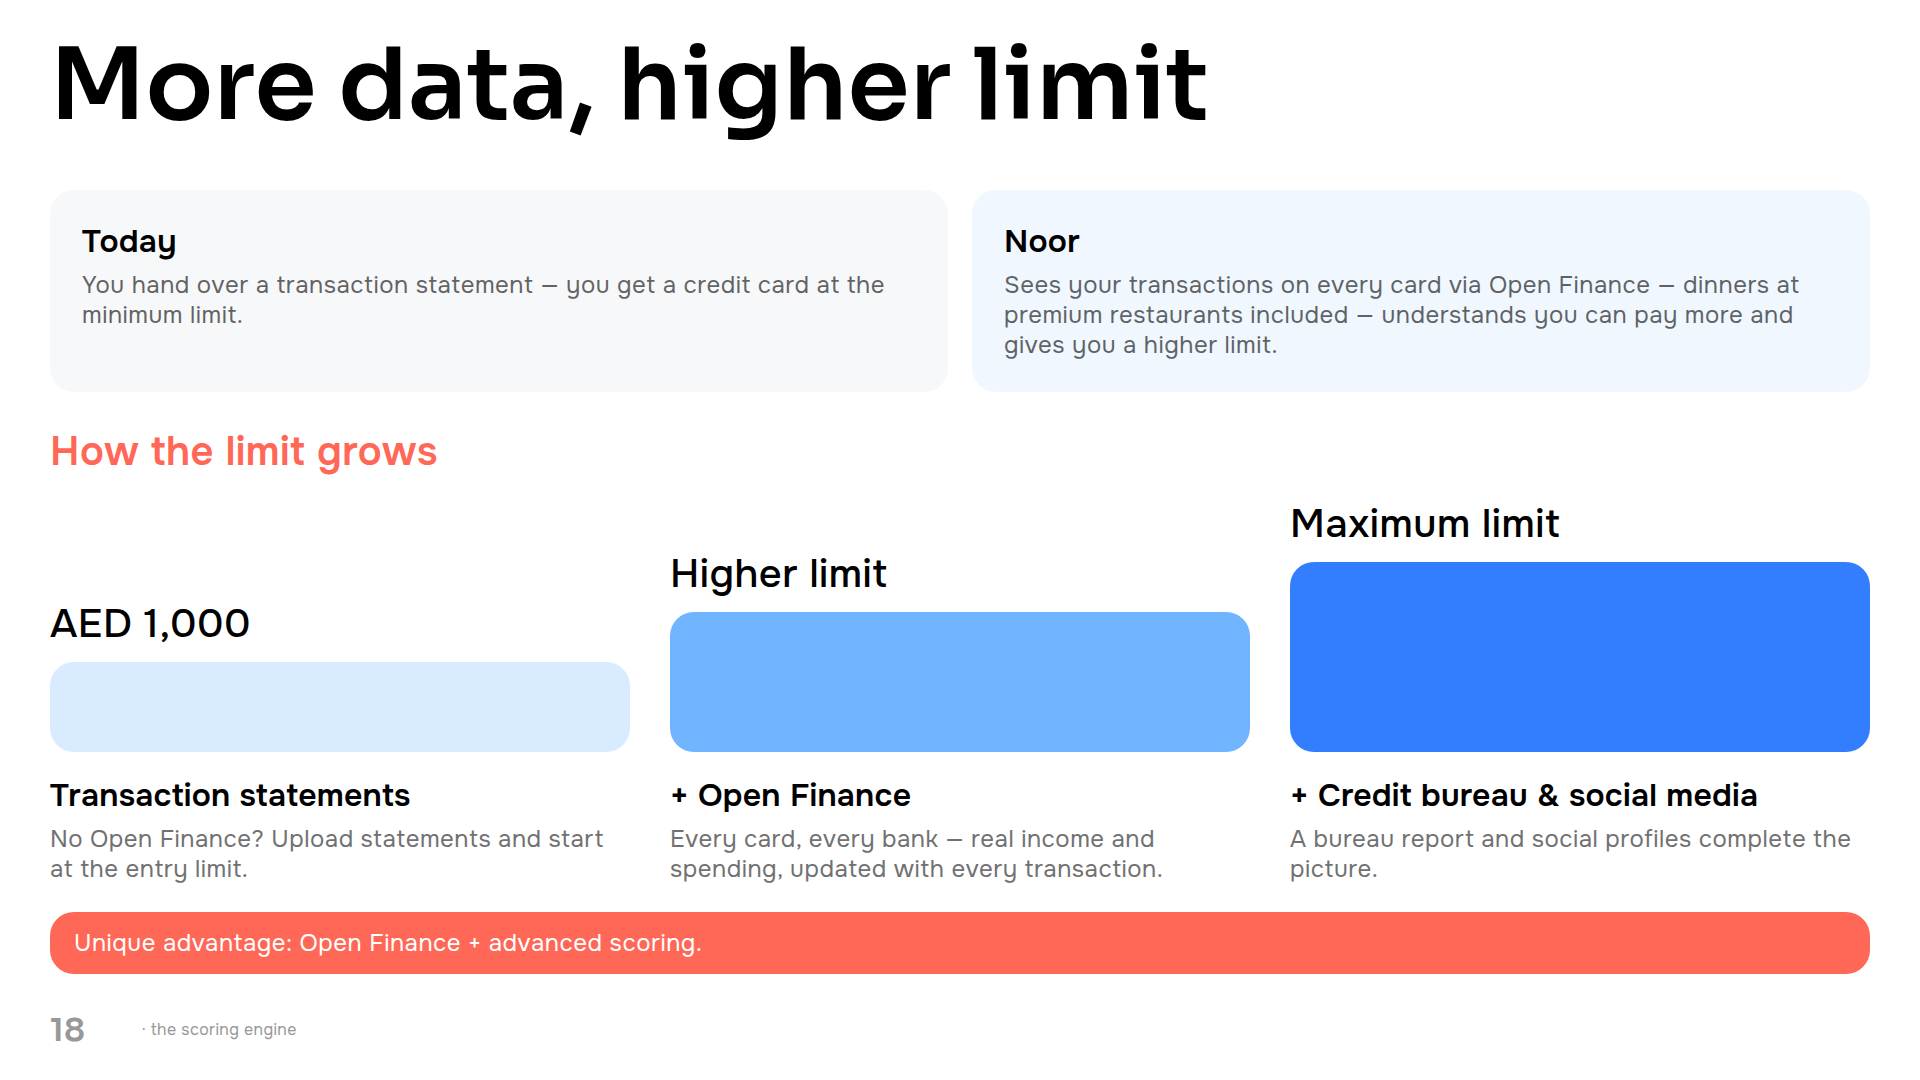
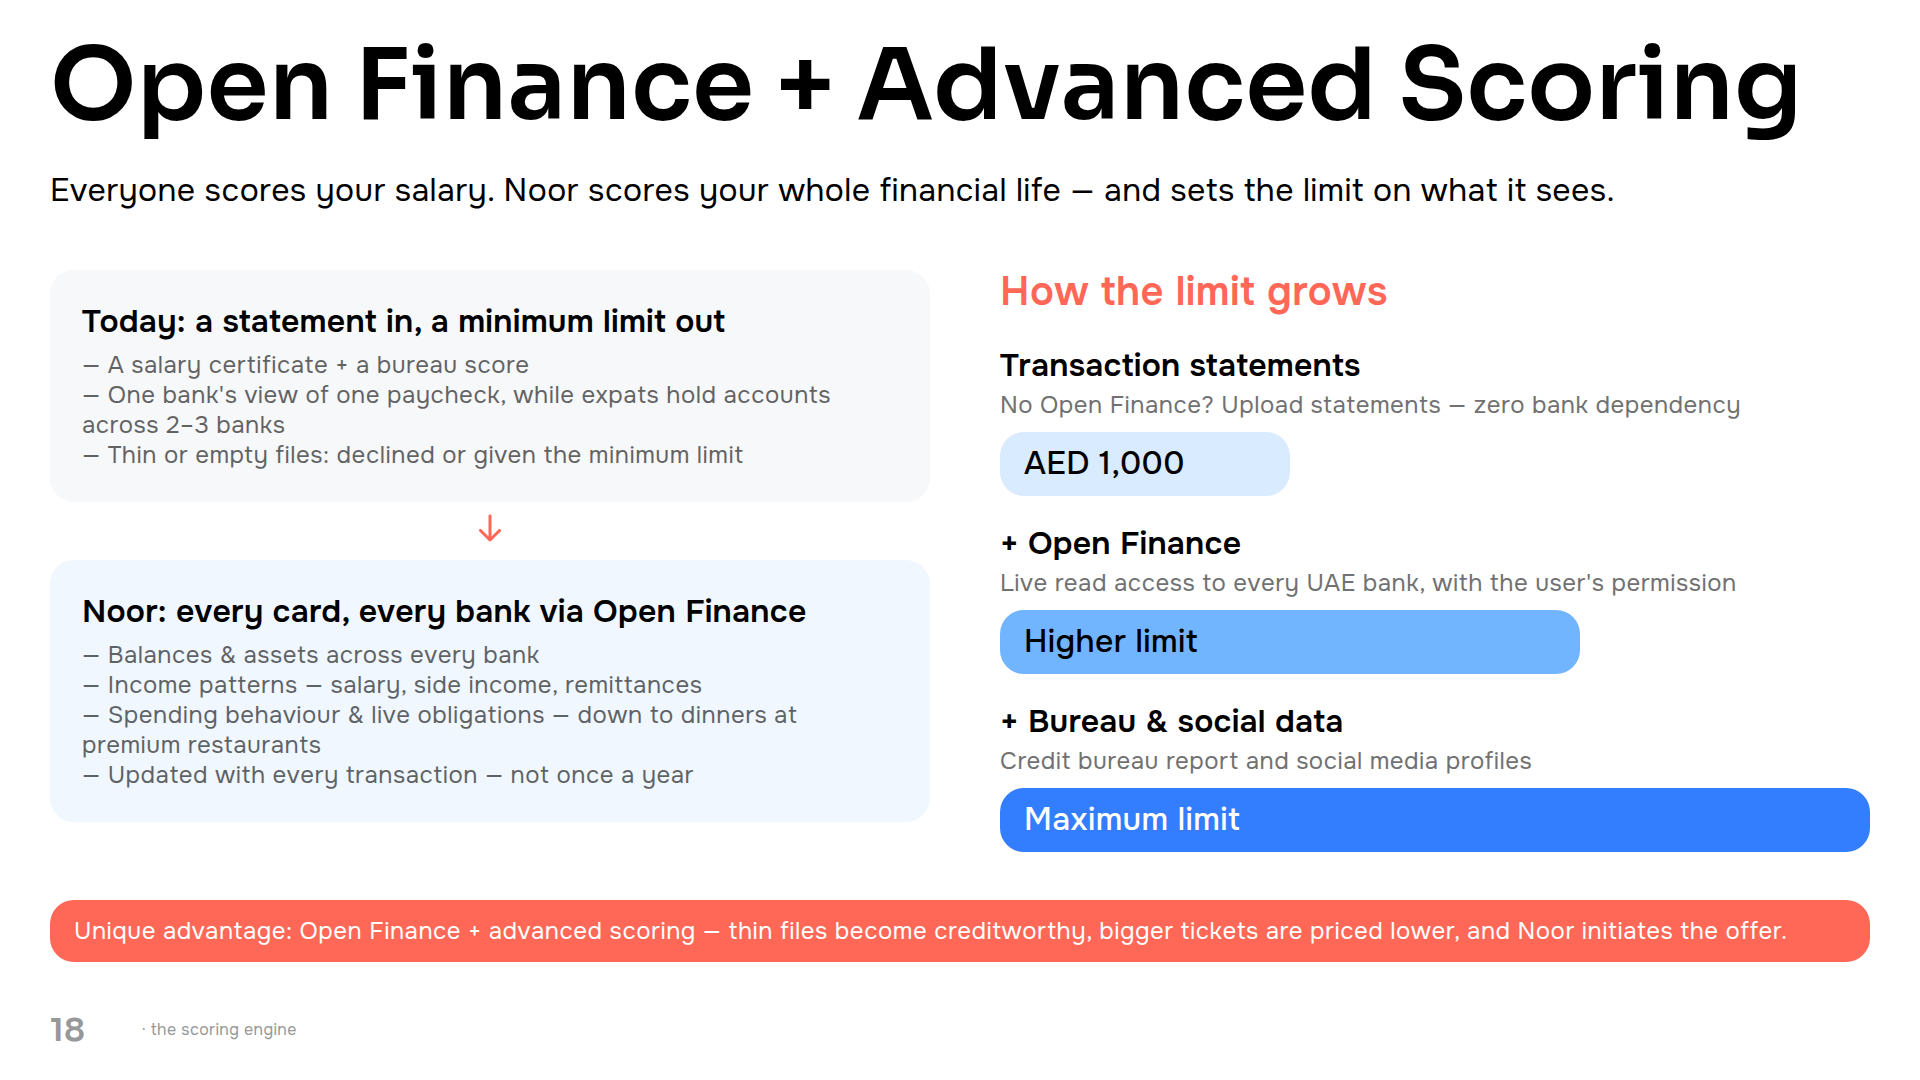
Enrich Open Finance scoring slide with deck content
Two-column layout: today vs Noor (scoring engine inputs from the
investor deck) and a limit ladder (statements -> Open Finance ->
bureau & social data), plus a fuller conclusion.

Claude-Session: https://claude.ai/code/session_01FVFR16hJqhAP33fZUFohZe

Changed region(s): [[0.0312, 0.2139, 1.0, 0.9167], [0.0312, 0.0306, 0.9375, 0.1833], [0.0312, 0.2139, 0.4688, 0.4583]]

diff --git a/noor-slides/open-finance-scoring.html b/noor-slides/open-finance-scoring.html
@@ -20,49 +20,43 @@
 </head>
 <body class="bg-[#D9D9D9] font-onest flex flex-col items-center p-10">
 
-<!-- Open Finance + advanced scoring: today vs Noor + limit ladder -->
+<!-- Open Finance + advanced scoring: today → Noor (left), limit ladder (right), conclusion -->
 <section class="relative w-[1920px] h-[1080px] bg-white overflow-hidden shrink-0">
-  <noor-header>More data, higher limit</noor-header>
+  <noor-header>Open Finance + Advanced Scoring</noor-header>
+  <p class="absolute left-[50px] top-[171px] w-[1820px] font-onest text-body-3 text-neutral-0">Everyone scores your salary. Noor scores your whole financial life — and sets the limit on what it sees.</p>
 
-  <!-- Today vs Noor -->
-  <div class="absolute left-[50px] top-[190px] flex items-stretch justify-between w-[1820px]">
-    <noor-fill-grey class="w-[898px]" title="Today">You hand over a transaction statement — you get a credit card at the minimum limit.</noor-fill-grey>
-    <noor-fill-sky class="w-[898px]" title="Noor">Sees your transactions on every card via Open Finance — dinners at premium restaurants included — understands you can pay more and gives you a higher limit.</noor-fill-sky>
-  </div>
+  <!-- Left: today → Noor -->
+  <noor-fill-grey class="absolute left-[50px] top-[270px] w-[880px]" title="Today: a statement in, a minimum limit out">— A salary certificate + a bureau score<br>— One bank's view of one paycheck, while expats hold accounts across 2–3 banks<br>— Thin or empty files: declined or given the minimum limit</noor-fill-grey>
+  <span class="icon-32 absolute left-[474px] top-[512px]"><img src="icons/arrow-down-24.svg" alt=""></span>
+  <noor-fill-sky class="absolute left-[50px] top-[560px] w-[880px]" title="Noor: every card, every bank via Open Finance">— Balances &amp; assets across every bank<br>— Income patterns — salary, side income, remittances<br>— Spending behaviour &amp; live obligations — down to dinners at premium restaurants<br>— Updated with every transaction — not once a year</noor-fill-sky>
 
-  <!-- Limit ladder (diagram) -->
-  <p class="absolute left-[50px] top-[430px] font-onest font-semibold text-header-4 text-terracota-40">How the limit grows</p>
-  <div class="absolute left-[50px] top-[502px] grid grid-cols-3 gap-x-[40px] w-[1820px]">
-    <!-- step 1 -->
-    <div class="flex flex-col">
-      <div class="h-[250px] flex flex-col justify-end">
-        <p class="font-onest font-medium text-header-4 text-neutral-0 mb-[16px]">AED 1,000</p>
-        <div class="h-[90px] rounded-[24px] bg-sky-80"></div>
+  <!-- Right: limit ladder (diagram) -->
+  <p class="absolute left-[1000px] top-[270px] font-onest font-semibold text-header-4 text-terracota-40">How the limit grows</p>
+  <div class="absolute left-[1000px] top-[346px] flex flex-col gap-[28px] w-[870px]">
+    <div class="flex flex-col gap-[12px]">
+      <div class="flex flex-col gap-[4px]">
+        <p class="font-onest font-semibold text-body-2 text-neutral-0">Transaction statements</p>
+        <p class="font-onest text-label-1 text-neutral-40">No Open Finance? Upload statements — zero bank dependency</p>
       </div>
-      <p class="font-onest font-semibold text-body-2 text-neutral-0 mt-[24px]">Transaction statements</p>
-      <p class="font-onest text-label-1 text-neutral-40 mt-[8px]">No Open Finance? Upload statements and start at the entry limit.</p>
+      <div class="w-[290px] h-[64px] rounded-[24px] bg-sky-80 flex items-center px-[24px] font-onest font-medium text-body-1 text-neutral-0">AED 1,000</div>
     </div>
-    <!-- step 2 -->
-    <div class="flex flex-col">
-      <div class="h-[250px] flex flex-col justify-end">
-        <p class="font-onest font-medium text-header-4 text-neutral-0 mb-[16px]">Higher limit</p>
-        <div class="h-[140px] rounded-[24px] bg-sky-55"></div>
+    <div class="flex flex-col gap-[12px]">
+      <div class="flex flex-col gap-[4px]">
+        <p class="font-onest font-semibold text-body-2 text-neutral-0">+ Open Finance</p>
+        <p class="font-onest text-label-1 text-neutral-40">Live read access to every UAE bank, with the user's permission</p>
       </div>
-      <p class="font-onest font-semibold text-body-2 text-neutral-0 mt-[24px]">+ Open Finance</p>
-      <p class="font-onest text-label-1 text-neutral-40 mt-[8px]">Every card, every bank — real income and spending, updated with every transaction.</p>
+      <div class="w-[580px] h-[64px] rounded-[24px] bg-sky-55 flex items-center px-[24px] font-onest font-medium text-body-1 text-neutral-0">Higher limit</div>
     </div>
-    <!-- step 3 -->
-    <div class="flex flex-col">
-      <div class="h-[250px] flex flex-col justify-end">
-        <p class="font-onest font-medium text-header-4 text-neutral-0 mb-[16px]">Maximum limit</p>
-        <div class="h-[190px] rounded-[24px] bg-sky-40"></div>
+    <div class="flex flex-col gap-[12px]">
+      <div class="flex flex-col gap-[4px]">
+        <p class="font-onest font-semibold text-body-2 text-neutral-0">+ Bureau &amp; social data</p>
+        <p class="font-onest text-label-1 text-neutral-40">Credit bureau report and social media profiles</p>
       </div>
-      <p class="font-onest font-semibold text-body-2 text-neutral-0 mt-[24px]">+ Credit bureau &amp; social media</p>
-      <p class="font-onest text-label-1 text-neutral-40 mt-[8px]">A bureau report and social profiles complete the picture.</p>
+      <div class="w-[870px] h-[64px] rounded-[24px] bg-sky-40 flex items-center px-[24px] font-onest font-medium text-body-1 text-neutral-100">Maximum limit</div>
     </div>
   </div>
 
-  <noor-conclusion class="absolute left-[50px] top-[912px] w-[1820px]">Unique advantage: Open Finance + advanced scoring.</noor-conclusion>
+  <noor-conclusion class="absolute left-[50px] top-[900px] w-[1820px]">Unique advantage: Open Finance + advanced scoring — thin files become creditworthy, bigger tickets are priced lower, and Noor initiates the offer.</noor-conclusion>
   <noor-footer n="18">the scoring engine</noor-footer>
 </section>
 
